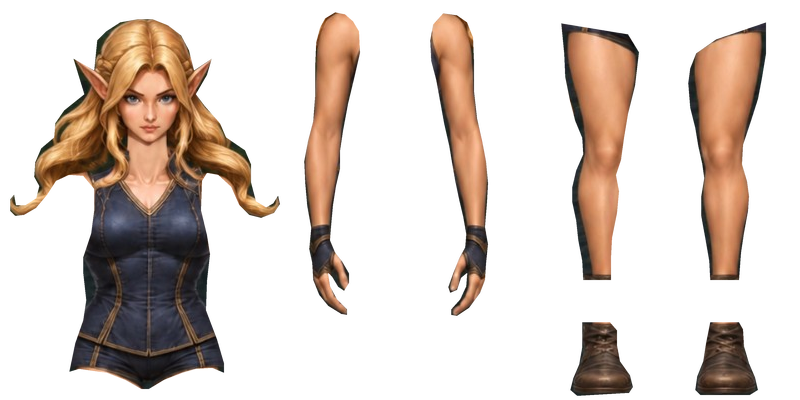
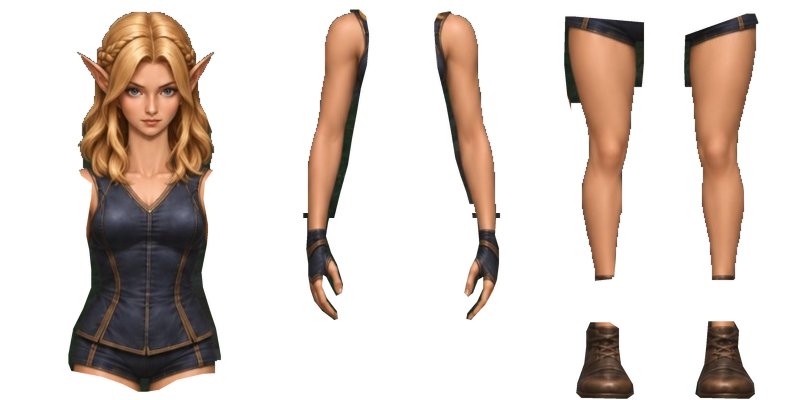
Add a second elf model and replace the Wildlands arena shortcut

diff --git a/app/src/main/java/com/cosmerearchives/dndroguelike/OutdoorActivity.java b/app/src/main/java/com/cosmerearchives/dndroguelike/OutdoorActivity.java
@@ -83,6 +83,8 @@ public final class OutdoorActivity extends Activity {
         private final GaitModel gait=new GaitModel();
         // Base first: armor is explicitly opt-in for comparison and layering QA.
         private boolean armorVisible=false;
+        private boolean maleModel;
+        private final RectF modelToggleBounds = new RectF();
         private final RectF armorToggleBounds=new RectF();
         private final RectF viewToggleBounds=new RectF();
         private boolean closeUp=true;
@@ -140,6 +142,9 @@ public final class OutdoorActivity extends Activity {
             riggedArt=new RiggedElf(context);
             armorVisible=context.getSharedPreferences("animation_lab",Context.MODE_PRIVATE)
                 .getBoolean("armor_visible",false);
+            maleModel = context.getSharedPreferences("animation_lab",Context.MODE_PRIVATE)
+                .getBoolean("male_elf", false);
+            riggedArt.setMaleModel(maleModel);
             heroName=hero!=null&&hero.completed?hero.name:"Explorer";
             density=getResources().getDisplayMetrics().density;
             setFocusable(true);
@@ -504,6 +509,8 @@ public final class OutdoorActivity extends Activity {
             return attackRemaining>0f ? 1f-attackRemaining/RigAttackPose.DURATION : 0f;
         }
 
+        private boolean showArmor() { return armorVisible && !maleModel; }
+
         private void drawCloseUp(Canvas c,float h,float d){
             float top=62*d, bottom=h-158*d;
             if(bottom<=top)return;
@@ -517,13 +524,13 @@ public final class OutdoorActivity extends Activity {
             float feetY=bottom-Math.max(15f*d,13f*scale);
             float phase=attackProgress();
             riggedArt.draw(c,closeWidth*.5f,feetY,scale,facing,walkTime,
-                gaitBlend,idleTime,phase,armorVisible,closeWidth);
+                gaitBlend,idleTime,phase,showArmor(),closeWidth);
 
             float referenceX=closeWidth+referenceWidth*.5f;
             oval(c,0x99112125,referenceX-23*referenceScale,feetY-4*referenceScale,
                 referenceX+23*referenceScale,feetY+5*referenceScale);
             riggedArt.draw(c,referenceX,feetY,referenceScale,facing,walkTime,
-                gaitBlend,idleTime,phase,armorVisible,0f);
+                gaitBlend,idleTime,phase,showArmor(),0f);
             text(c,"1.0× WORLD",referenceX-31*d,feetY+13*d,10*d,0xFFF3DBA4);
         }
 
@@ -567,7 +574,7 @@ public final class OutdoorActivity extends Activity {
                         float feetY=screenY(x,y)-tile.level*LEVEL_H;
                         oval(c,0x880A1614,feetX-21,feetY-6,feetX+21,feetY+6);
                         riggedArt.draw(c,feetX,feetY,WORLD_RIG_SCALE,facing,walkTime,
-                            gaitBlend,idleTime,attackProgress(),armorVisible,0f);
+                            gaitBlend,idleTime,attackProgress(),showArmor(),0f);
                         text(c,heroName,feetX-25,feetY-157,12,0xFFFFF0D1);
                     }
                 }
@@ -591,10 +598,10 @@ public final class OutdoorActivity extends Activity {
                 viewToggleBounds.right,viewToggleBounds.bottom,6*d);
             text(c,closeUp?"CLOSE-UP":"WORLD VIEW",viewToggleBounds.left+8*d,24*d,10*d,0xFFF3DBA4);
             armorToggleBounds.set(getWidth()-113*d,8*d,getWidth()-9*d,49*d);
-            rounded(c,armorVisible?0xFF735F3E:0xFF324B55,
+            rounded(c,maleModel?0xFF394249:showArmor()?0xFF735F3E:0xFF324B55,
                 armorToggleBounds.left,armorToggleBounds.top,
                 armorToggleBounds.right,armorToggleBounds.bottom,6*d);
-            text(c,armorVisible?"ARMOR ON":"BASE ONLY",
+            text(c,showArmor()?"ARMOR ON":"BASE ONLY",
                 armorToggleBounds.left+9*d,36*d,11*d,0xFFF3DBA4);
             text(c,String.format(Locale.US,"REGION 01  ·  ELEV %d  ·  EXPLORED %d  ·  %.0f, %.0f",
                 height((int)x,(int)y),discovered,x,y),15*d,45*d,10*d,0xFFBFC5B6);
@@ -606,9 +613,11 @@ public final class OutdoorActivity extends Activity {
             oval(c,0xFFD0BD90,cx+knobX*23*d-18*d,cy+knobY*23*d-18*d,
                 cx+knobX*23*d+18*d,cy+knobY*23*d+18*d);
             float right=getWidth();
-            rounded(c,0xFF31454A,right-214*d,h-93*d,right-118*d,h-33*d,7*d);
+            modelToggleBounds.set(right-214*d,h-93*d,right-118*d,h-33*d);
+            rounded(c,0xFF31454A,modelToggleBounds.left,modelToggleBounds.top,
+                modelToggleBounds.right,modelToggleBounds.bottom,7*d);
             rounded(c,0xFF6B543D,right-110*d,h-93*d,right-10*d,h-33*d,7*d);
-            text(c,"ARENA",right-201*d,h-56*d,13*d,0xFFF2DBA8);
+            text(c,maleModel?"MALE ELF":"FEMALE ELF",right-204*d,h-56*d,11*d,0xFFF2DBA8);
             text(c,paused?"RESUME":"PAUSE",right-103*d,h-56*d,13*d,0xFFF2DBA8);
             attackBounds.set(right-110*d,h-158*d,right-10*d,h-112*d);
             rounded(c,attackRemaining>0f?0xFF9B674A:0xFF4E5144,
@@ -675,6 +684,7 @@ public final class OutdoorActivity extends Activity {
                     invalidate();return true;
                 }
                 if(armorToggleBounds.contains(sx,sy)){
+                    if (maleModel) return true;
                     armorVisible=!armorVisible;
                     getContext().getSharedPreferences("animation_lab",Context.MODE_PRIVATE)
                         .edit().putBoolean("armor_visible",armorVisible).apply();
@@ -692,8 +702,14 @@ public final class OutdoorActivity extends Activity {
                     if(sx>getWidth()-111*d){
                         setPaused(!paused);return true;
                     }
-                    if(sx>getWidth()-218*d){
-                        getContext().startActivity(new Intent(getContext(),GameActivity.class));return true;
+                    if(modelToggleBounds.contains(sx,sy)){
+                        maleModel = !maleModel;
+                        riggedArt.setMaleModel(maleModel);
+                        attackRemaining = 0f;
+                        getContext().getSharedPreferences("animation_lab",Context.MODE_PRIVATE)
+                            .edit().putBoolean("male_elf", maleModel).apply();
+                        invalidate();
+                        return true;
                     }
                     if(sx<124*d&&!paused){
                         joystick=true;moving=false;

diff --git a/app/src/main/java/com/cosmerearchives/dndroguelike/ElfBaseArt.java b/app/src/main/java/com/cosmerearchives/dndroguelike/ElfBaseArt.java
@@ -19,21 +19,26 @@ final class ElfBaseArt {
 
     // Coordinates within each limb cell, followed by the cell's origin in the
     // facing artwork. Rear arm art is flipped to match the renderer's projection.
-    private static final int[][] FRONT = {
-        {50,47,35,141,32,229,145,672}, {37,47,53,141,59,229,311,672},
-        {55,48,58,163,52,277,177,845}, {60,48,53,163,52,277,254,845}
+    private static final int[][][] FEMALE = {
+        {{56,45,43,142,30,232,146,666}, {46,45,53,142,70,232,300,666},
+         {60,45,60,161,57,272,174,847}, {56,45,49,161,50,272,256,847}},
+        {{65,46,61,145,73,235,183,661}, {65,46,61,145,73,235,183,661},
+         {57,41,66,163,62,273,205,847}, {57,41,66,163,62,273,205,847}},
+        {{86,43,74,136,63,221,111,670}, {74,42,85,136,101,221,267,670},
+         {56,49,62,160,56,273,179,847}, {48,49,51,160,56,273,260,847}},
+        {{64,46,61,145,73,234,184,659}, {64,46,61,145,73,234,184,659},
+         {60,39,65,162,63,273,204,847}, {60,39,65,162,63,273,204,847}}
     };
-    private static final int[][] RIGHT = {
-        {56,53,49,149,60,235,192,664}, {56,53,49,149,60,235,192,664},
-        {54,45,61,160,58,278,208,845}, {54,45,61,160,58,278,208,845}
-    };
-    private static final int[][] BACK = {
-        {84,43,74,137,58,215,111,674}, {73,43,86,137,96,215,279,674},
-        {56,51,65,161,59,276,176,847}, {54,51,50,161,52,276,254,847}
-    };
-    private static final int[][] LEFT = {
-        {59,55,59,154,63,234,190,658}, {59,55,59,154,63,234,190,658},
-        {58,43,61,158,59,276,208,845}, {58,43,61,158,59,276,208,845}
+
+    private static final int[][][] MALE = {
+        {{55,49,42,139,27,228,135,626}, {42,49,57,139,69,228,306,626},
+         {56,43,53,129,46,269,179,841}, {52,43,55,128,55,269,255,841}},
+        {{44,41,40,143,55,223,220,630}, {44,41,40,143,55,223,220,630},
+         {52,44,49,135,44,268,227,842}, {52,44,49,135,44,268,227,842}},
+        {{83,43,71,134,63,222,108,631}, {82,43,95,134,102,222,270,631},
+         {58,44,53,134,49,269,177,841}, {51,44,52,134,56,269,256,841}},
+        {{43,42,40,143,55,223,220,630}, {43,42,40,143,55,223,220,630},
+         {53,44,49,135,45,268,226,842}, {53,44,49,135,45,268,226,842}}
     };
 
     private final Facing[] facings = new Facing[4];
@@ -46,10 +51,11 @@ final class ElfBaseArt {
         (125 - CENTER_X) * UNIT, (510 - SOLE_Y) * UNIT,
         (125 + BODY_WIDTH - CENTER_X) * UNIT, (510 + ATLAS_HEIGHT - SOLE_Y) * UNIT);
 
-    ElfBaseArt(Context context) {
-        int[][][] registrations = {FRONT, RIGHT, BACK, LEFT};
+    ElfBaseArt(Context context, boolean male) {
+        int[][][] registrations = male ? MALE : FEMALE;
+        String prefix = male ? "elf_male_facing_" : "elf_base_facing_";
         for (int facing = 0; facing < facings.length; facing++) {
-            try (InputStream stream = context.getAssets().open("elf_base_facing_" + facing + ".webp")) {
+            try (InputStream stream = context.getAssets().open(prefix + facing + ".webp")) {
                 Bitmap atlas = BitmapFactory.decodeStream(stream);
                 if (atlas != null && atlas.getWidth() == BODY_WIDTH + 4 * WIDTH
                     && atlas.getHeight() == ATLAS_HEIGHT) {

diff --git a/app/src/main/java/com/cosmerearchives/dndroguelike/RiggedElf.java b/app/src/main/java/com/cosmerearchives/dndroguelike/RiggedElf.java
@@ -37,14 +37,22 @@ final class RiggedElf {
         new float[]{0f,.44f,1f},Shader.TileMode.CLAMP);
     private final Bitmap headAtlas;
     private final ElfLayerSprites layers;
-    private final ElfBaseArt baseArt;
+    private final ElfBaseArt femaleArt;
+    private final ElfBaseArt maleArt;
+    private ElfBaseArt baseArt;
     private final Rect headSrc = new Rect();
     private final RectF headDst = new RectF();
 
     RiggedElf(Context context) {
         headAtlas = loadHeadAtlas(context);
         layers = new ElfLayerSprites(context);
-        baseArt = new ElfBaseArt(context);
+        femaleArt = new ElfBaseArt(context, false);
+        maleArt = new ElfBaseArt(context, true);
+        baseArt = femaleArt;
+    }
+
+    void setMaleModel(boolean male) {
+        baseArt = male ? maleArt : femaleArt;
     }
 
     private static Bitmap loadHeadAtlas(Context context) {
